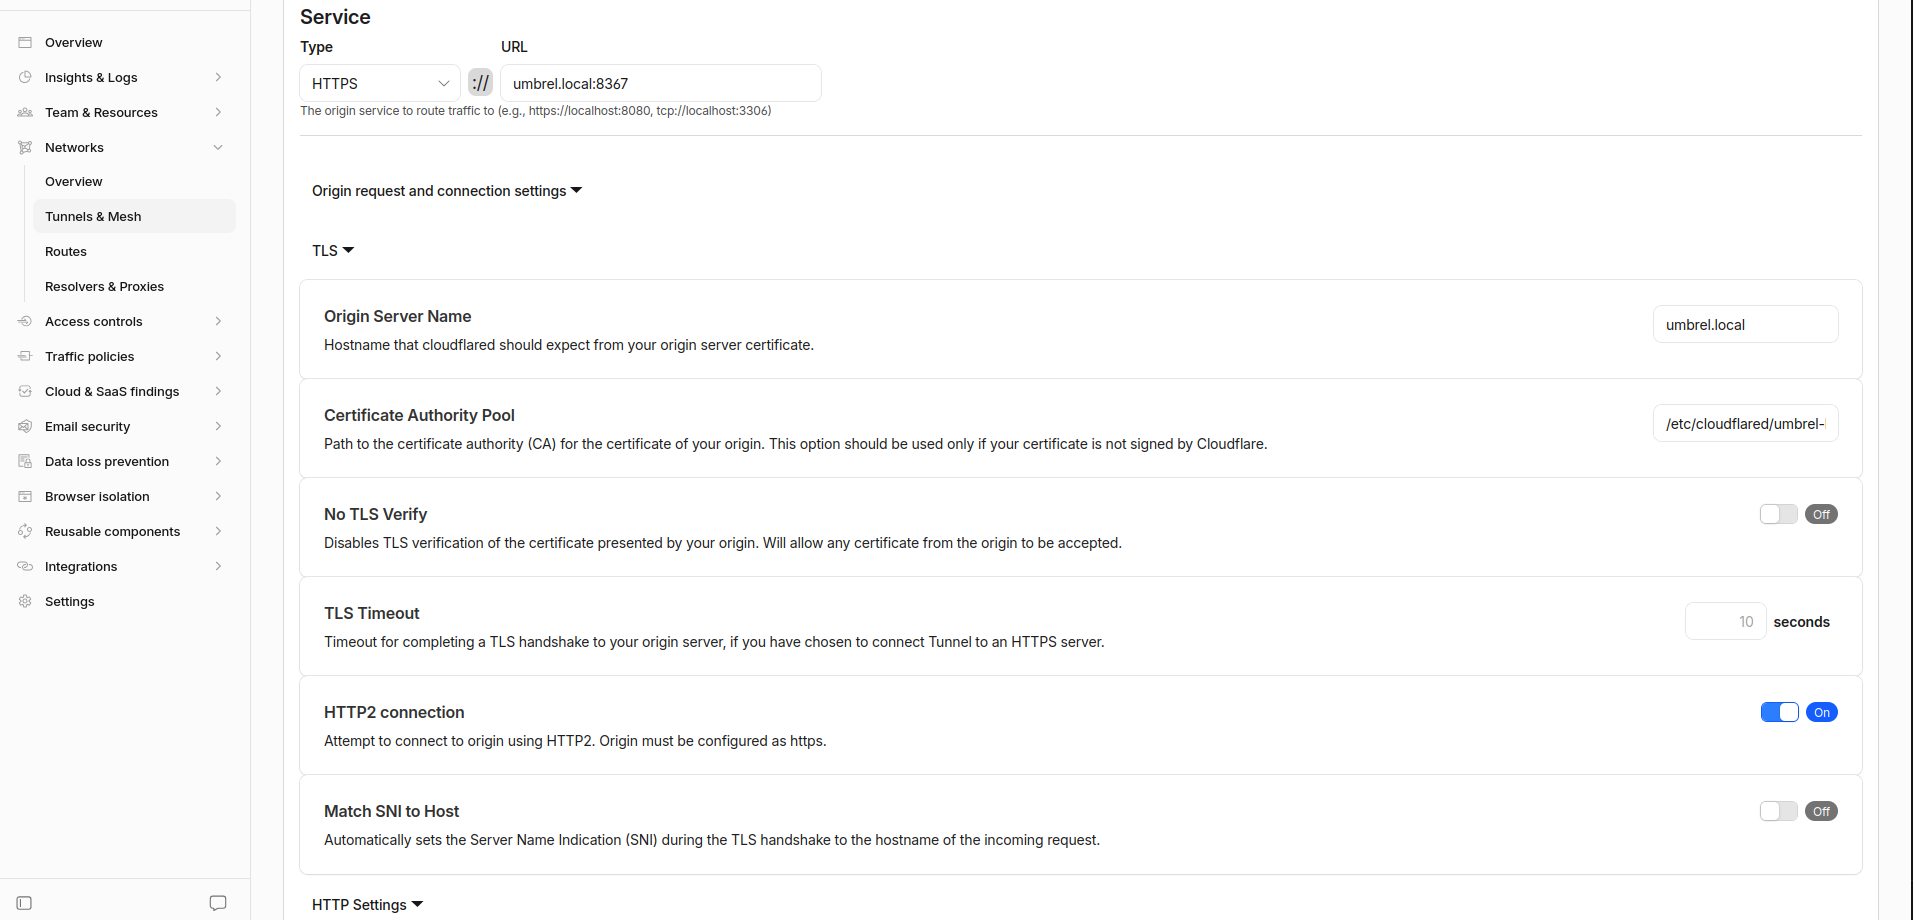
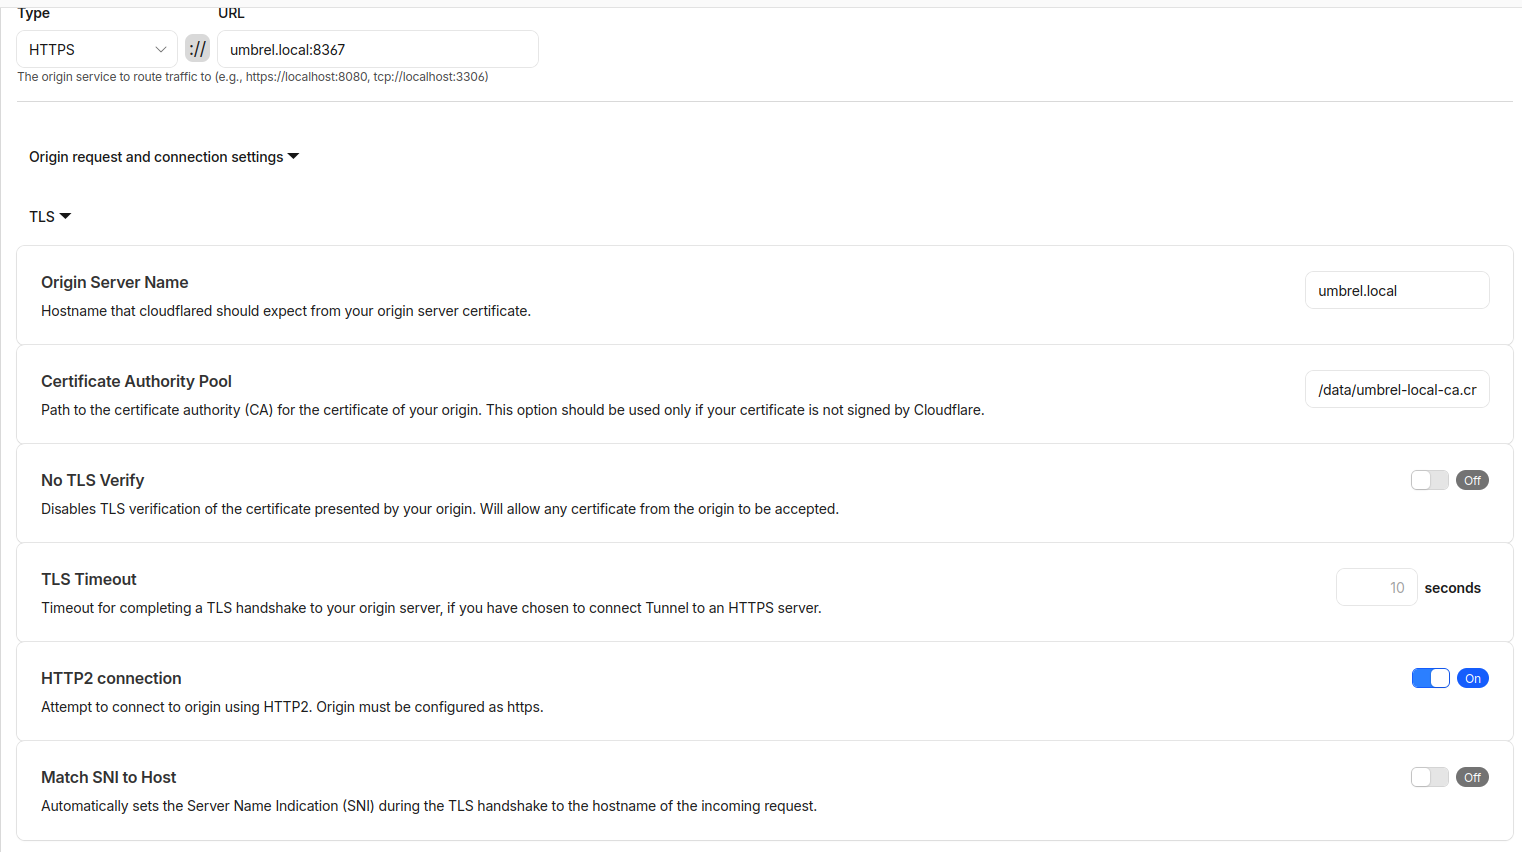
docs: fix Umbrel Cloudflare CA path

diff --git a/README.md b/README.md
@@ -100,18 +100,25 @@ A redirect from `/pay` to an Umbrel login page is normal and does not indicate a
 
 ## Cloudflare Tunnel on UmbrelOS 2.0
 
-Use Umbrel's HTTPS origin and keep certificate verification enabled:
+Use Umbrel's HTTPS origin and keep certificate verification enabled. Before configuring the public hostname:
+
+1. Export the **Umbrel Local HTTPS CA** certificate from Umbrel.
+2. Open the Cloudflare Tunnel app's persistent `data` directory in Umbrel Files and copy the certificate there as `umbrel-local-ca.crt`.
+3. Restart the Cloudflare Tunnel app. Inside its connector container, the certificate is now available as `/data/umbrel-local-ca.crt`.
+4. Configure the public hostname with the settings below.
 
 | Cloudflare setting | Value |
 | --- | --- |
 | Service | `https://umbrel.local:8367` |
 | Origin Server Name | `umbrel.local` |
-| Certificate Authority Pool | `/etc/cloudflared/umbrel-local-ca.crt` |
+| Certificate Authority Pool | `/data/umbrel-local-ca.crt` |
 | HTTP2 connection | On |
 | No TLS Verify | **Off** |
 | Match SNI to Host | Off |
 
 ![Cloudflare Tunnel settings for UmbrelOS 2.0](docs/images/umbrel-cloudflare-tunnel.png)
+
+Do not use `/etc/cloudflared/umbrel-local-ca.crt`: that location is not mounted into the Umbrel Cloudflare Tunnel connector. If the file cannot be read, cloudflared rejects the ingress configuration and the affected hostname returns an error. **No TLS Verify** can help diagnose this condition, but it should not remain enabled. Copying the CA into `/data` keeps origin certificate verification active.
 
 In BOLT12 Pay, enter your public Tunnel address — for example `https://pay.yourdomain.com` — as the **LNURL Base URL**. Wallets need this public address to find your Lightning Address and complete payments.
 
